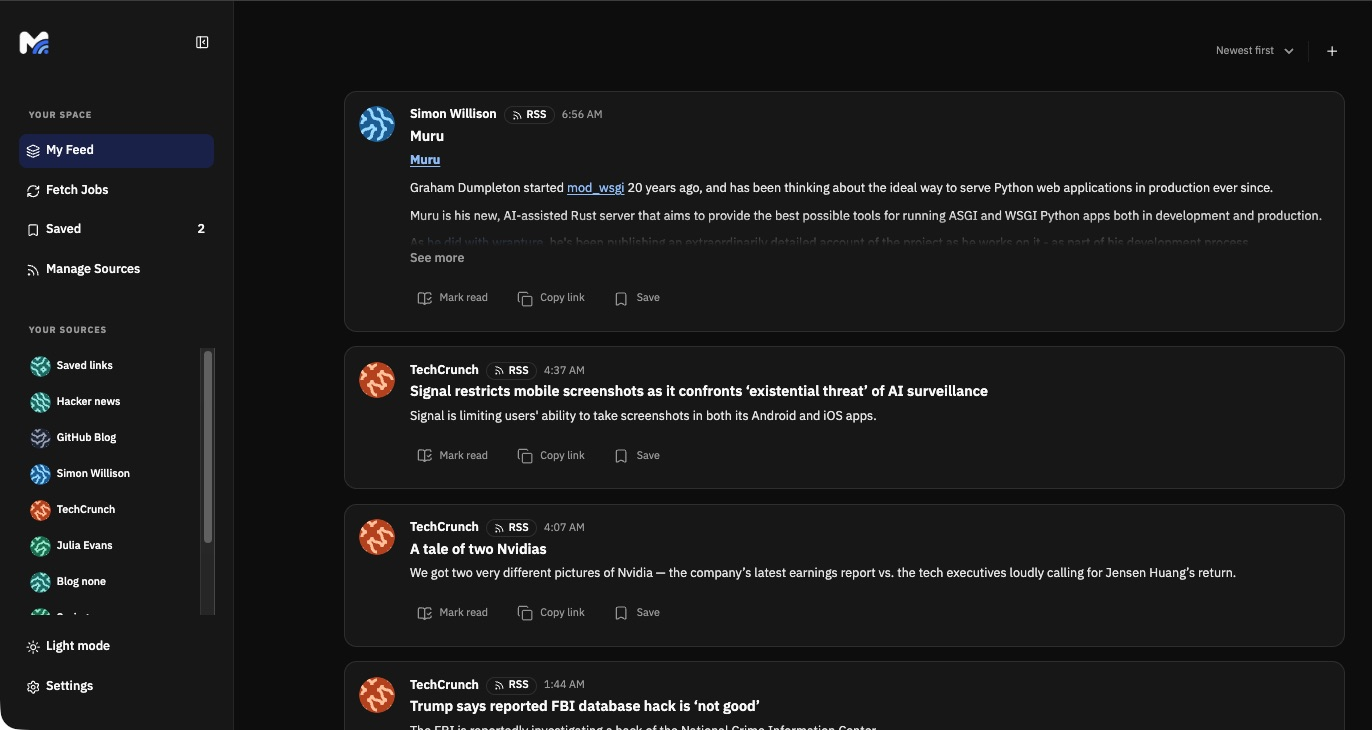
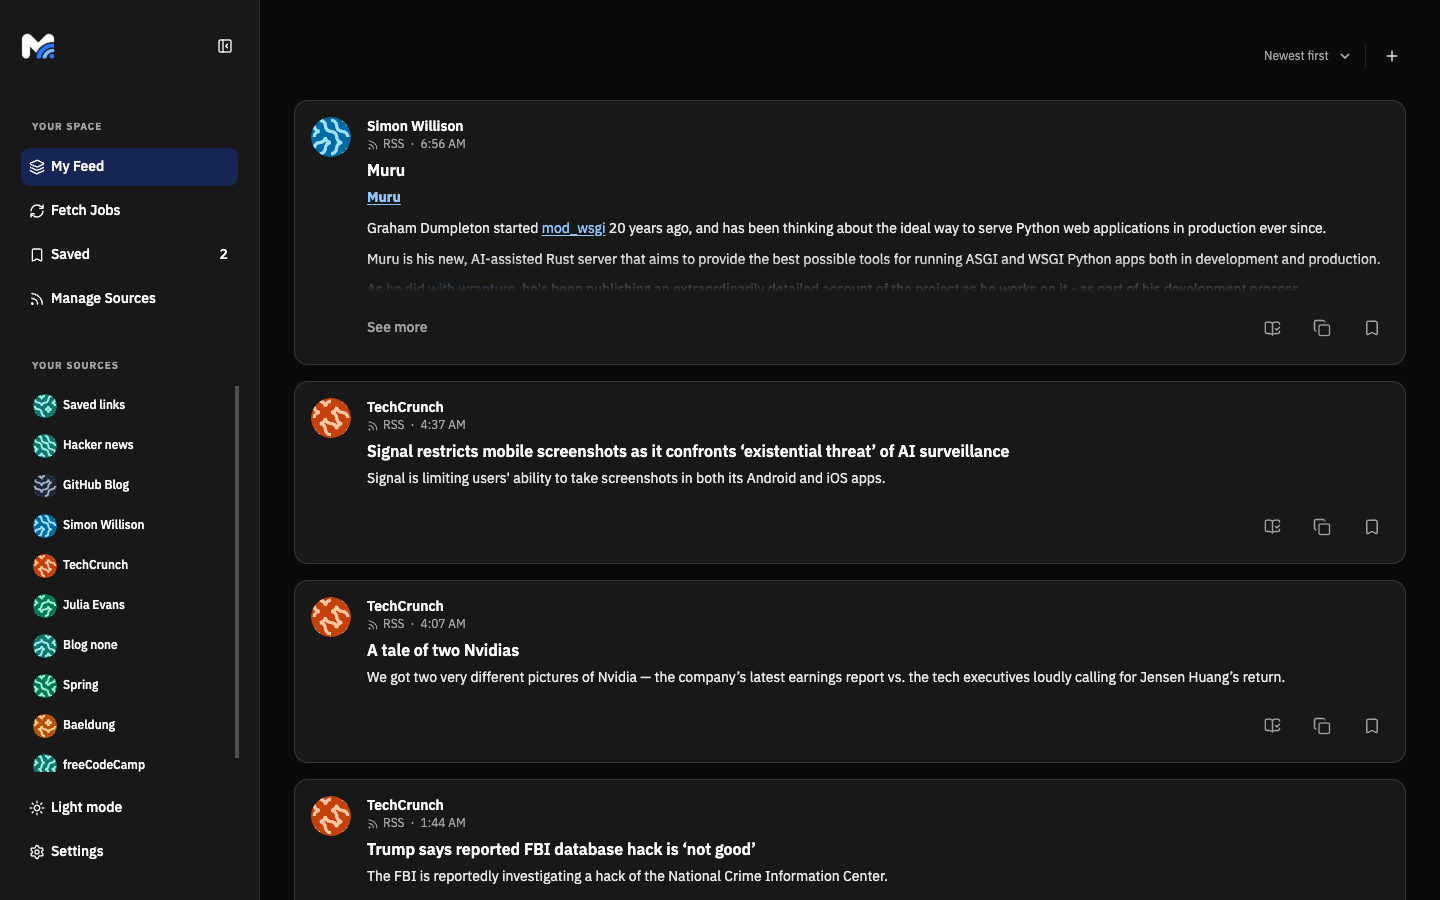
feat(feed): update entry layout and description controls

diff --git a/frontend/src/features/feed/FeedItem.tsx b/frontend/src/features/feed/FeedItem.tsx
@@ -25,6 +25,8 @@ export function FeedItem({
 	onToggle: (entry: Entry, action: "read" | "save") => void;
 }) {
 	const [copied, setCopied] = useState(false);
+	const [expanded, setExpanded] = useState(false);
+	const [overflowing, setOverflowing] = useState(false);
 	const read = !!entry.readAt;
 	const saved = !!entry.savedAt;
 	const date = entry.publishedAt ?? entry.createdAt;
@@ -54,28 +56,26 @@ export function FeedItem({
 			</Link>
 			<div className="min-w-0 flex-1">
 				<div className="flex flex-col gap-3 sm:flex-row sm:items-center sm:gap-5">
-					<div className="min-w-0 flex-1">
-						<div className="flex flex-wrap items-center gap-x-2 gap-y-1">
-							<div className="flex min-w-0 items-center gap-2">
-								<Link
-									to="/sources/$sourceId"
-									params={{ sourceId: entry.sourceId }}
-									className="truncate text-sm font-semibold hover:underline"
-								>
-									{source?.name ?? "Source"}
-								</Link>
-								{source && <SourceTypeBadge type={source.type} />}
-							</div>
-							<time
-								dateTime={date}
-								className="shrink-0 text-xs text-muted-foreground"
+					<div className="min-w-0 flex-1 mb-1">
+						<div className="min-w-0">
+							<Link
+								to="/sources/$sourceId"
+								params={{ sourceId: entry.sourceId }}
+								className="block truncate text-sm font-semibold hover:underline"
 							>
-								{formatDate(date)}
-							</time>
+								{source?.name ?? "Source"}
+							</Link>
+							<div className="flex items-center gap-1.5 text-xs text-muted-foreground">
+								{source && (
+									<SourceTypeBadge type={source.type} variant="inline" />
+								)}
+								{source && <span aria-hidden="true">·</span>}
+								<time dateTime={date}>{formatDate(date)}</time>
+							</div>
 						</div>
 						<h3
 							className={cn(
-								"mt-1 text-base font-semibold leading-snug",
+								"mt-2 text-base font-semibold leading-snug",
 								read && "text-muted-foreground",
 							)}
 						>
@@ -88,7 +88,13 @@ export function FeedItem({
 								{entry.title}
 							</a>
 						</h3>
-						{description && <RichDescription html={description} />}
+						{description && (
+							<RichDescription
+								html={description}
+								expanded={expanded}
+								onOverflowChange={setOverflowing}
+							/>
+						)}
 					</div>
 					{entry.thumbnail && (
 						<a
@@ -105,59 +111,66 @@ export function FeedItem({
 						</a>
 					)}
 				</div>
-				<div className="mt-3 flex flex-wrap items-center gap-x-2 text-muted-foreground sm:gap-x-4">
-					<button
-						type="button"
-						disabled={disabled}
-						onClick={() => onToggle(entry, "read")}
-						aria-label={
-							read
-								? `Mark ${entry.title} as unread`
-								: `Mark ${entry.title} as read`
-						}
-						aria-pressed={read}
-						title={read ? "Read" : "Mark as read"}
-						className="inline-flex min-h-11 min-w-11 items-center justify-center gap-2 sm:min-h-10 sm:min-w-0 rounded-md px-2 text-xs hover:bg-muted disabled:opacity-50"
-					>
-						{read ? <CircleCheck size={17} /> : <BookOpenCheck size={17} />}
-						<span className="hidden sm:inline">
-							{read ? "Read" : "Mark read"}
-						</span>
-					</button>
-					<button
-						type="button"
-						onClick={copyLink}
-						aria-label={copied ? "Link copied" : "Copy link"}
-						title={copied ? "Link copied" : "Copy link"}
-						className="inline-flex min-h-11 min-w-11 items-center justify-center gap-2 sm:min-h-10 sm:min-w-0 rounded-md px-2 text-xs hover:bg-muted"
-					>
-						{copied ? (
-							<Check size={18} strokeWidth={1.9} />
-						) : (
-							<Copy size={18} strokeWidth={1.7} />
-						)}
-						<span className="hidden sm:inline">
-							{copied ? "Copied" : "Copy link"}
-						</span>
-					</button>
-					<button
-						type="button"
-						disabled={disabled}
-						onClick={() => onToggle(entry, "save")}
-						aria-label={
-							saved ? `Remove ${entry.title} from Saved` : `Save ${entry.title}`
-						}
-						aria-pressed={saved}
-						title={saved ? "Remove from saved" : "Saved"}
-						className="inline-flex min-h-11 min-w-11 items-center justify-center gap-2 sm:min-h-10 sm:min-w-0 rounded-md px-2 text-xs hover:bg-muted disabled:opacity-50"
-					>
-						<Bookmark
-							size={18}
-							strokeWidth={1.7}
-							fill={saved ? "currentColor" : "none"}
-						/>
-						<span className="hidden sm:inline">{saved ? "Saved" : "Save"}</span>
-					</button>
+				<div className="mt-3 flex items-center text-muted-foreground">
+					{description && overflowing && (
+						<button
+							type="button"
+							aria-expanded={expanded}
+							onClick={() => setExpanded(!expanded)}
+							className="text-sm font-medium hover:text-foreground hover:underline focus-visible:outline-2 focus-visible:outline-offset-2"
+						>
+							{expanded ? "See less" : "See more"}
+						</button>
+					)}
+					<div className="ml-auto flex items-center gap-x-2 sm:gap-x-4">
+						<button
+							type="button"
+							disabled={disabled}
+							onClick={() => onToggle(entry, "read")}
+							aria-label={
+								read
+									? `Mark ${entry.title} as unread`
+									: `Mark ${entry.title} as read`
+							}
+							aria-pressed={read}
+							title={read ? "Read" : "Mark as read"}
+							className="inline-flex min-h-11 min-w-11 items-center justify-center gap-2 sm:min-h-10 sm:min-w-0 rounded-md px-2 text-xs hover:bg-muted disabled:opacity-50"
+						>
+							{read ? <CircleCheck size={17} /> : <BookOpenCheck size={17} />}
+						</button>
+						<button
+							type="button"
+							onClick={copyLink}
+							aria-label={copied ? "Link copied" : "Copy link"}
+							title={copied ? "Link copied" : "Copy link"}
+							className="inline-flex min-h-11 min-w-11 items-center justify-center gap-2 sm:min-h-10 sm:min-w-0 rounded-md px-2 text-xs hover:bg-muted"
+						>
+							{copied ? (
+								<Check size={18} strokeWidth={1.9} />
+							) : (
+								<Copy size={18} strokeWidth={1.7} />
+							)}
+						</button>
+						<button
+							type="button"
+							disabled={disabled}
+							onClick={() => onToggle(entry, "save")}
+							aria-label={
+								saved
+									? `Remove ${entry.title} from Saved`
+									: `Save ${entry.title}`
+							}
+							aria-pressed={saved}
+							title={saved ? "Remove from saved" : "Saved"}
+							className="inline-flex min-h-11 min-w-11 items-center justify-center gap-2 sm:min-h-10 sm:min-w-0 rounded-md px-2 text-xs hover:bg-muted disabled:opacity-50"
+						>
+							<Bookmark
+								size={18}
+								strokeWidth={1.7}
+								fill={saved ? "currentColor" : "none"}
+							/>
+						</button>
+					</div>
 				</div>
 			</div>
 		</article>

diff --git a/frontend/src/features/feed/RichDescription.tsx b/frontend/src/features/feed/RichDescription.tsx
@@ -77,10 +77,17 @@ function renderNode(node: Node, key: number): ReactNode {
 	return <Tag key={key}>{children}</Tag>;
 }
 
-export function RichDescription({ html }: { html: string }) {
+export function RichDescription({
+	html,
+	expanded = false,
+	onOverflowChange,
+}: {
+	html: string;
+	expanded?: boolean;
+	onOverflowChange?: (overflowing: boolean) => void;
+}) {
 	const parsed = new DOMParser().parseFromString(html, "text/html");
 	const contentRef = useRef<HTMLDivElement>(null);
-	const [expanded, setExpanded] = useState(false);
 	const [overflowing, setOverflowing] = useState(false);
 
 	// biome-ignore lint/correctness/useExhaustiveDependencies: remeasure when html content changes
@@ -89,14 +96,16 @@ export function RichDescription({ html }: { html: string }) {
 		if (!content) return;
 		const measure = () => {
 			const limit = parseFloat(getComputedStyle(content).lineHeight) * 5;
-			setOverflowing(content.scrollHeight > limit + 1);
+			const isOverflowing = content.scrollHeight > limit + 1;
+			setOverflowing(isOverflowing);
+			onOverflowChange?.(isOverflowing);
 		};
 		measure();
 		if (typeof ResizeObserver === "undefined") return;
 		const observer = new ResizeObserver(measure);
 		observer.observe(content);
 		return () => observer.disconnect();
-	}, [html]);
+	}, [html, onOverflowChange]);
 
 	return (
 		<div className="mt-1 text-sm leading-relaxed text-foreground/90">
@@ -115,16 +124,6 @@ export function RichDescription({ html }: { html: string }) {
 					renderNode(node, index),
 				)}
 			</div>
-			{overflowing && (
-				<button
-					type="button"
-					aria-expanded={expanded}
-					onClick={() => setExpanded(!expanded)}
-					className="mt-1 font-medium text-muted-foreground hover:text-foreground hover:underline focus-visible:outline-2 focus-visible:outline-offset-2"
-				>
-					{expanded ? "See less" : "See more"}
-				</button>
-			)}
 		</div>
 	);
 }

diff --git a/frontend/src/components/SourceTypeBadge.tsx b/frontend/src/components/SourceTypeBadge.tsx
@@ -9,12 +9,25 @@ const types: Record<
 	manual: { label: "Manual", icon: Layers3, iconClassName: "text-blue-600" },
 };
 
-export function SourceTypeBadge({ type }: { type: string }) {
+export function SourceTypeBadge({
+	type,
+	variant = "outline",
+}: {
+	type: string;
+	variant?: "outline" | "inline";
+}) {
 	const sourceType = types[type];
 	const Icon = sourceType?.icon;
 
 	return (
-		<Badge variant="outline">
+		<Badge
+			variant="outline"
+			className={
+				variant === "inline"
+					? "h-auto border-0 p-0 font-normal text-muted-foreground"
+					: undefined
+			}
+		>
 			{type === "youtube" && (
 				<svg aria-hidden="true" viewBox="0 0 24 24">
 					<rect x="2" y="4" width="20" height="16" rx="4" fill="#ff0000" />

diff --git a/.codex/hooks/check_frontend.py b/.codex/hooks/check_frontend.py
@@ -1,0 +1,38 @@
+#!/usr/bin/env python3
+import json
+import subprocess
+import sys
+from pathlib import Path
+
+root = Path(__file__).resolve().parents[2]
+event = json.load(sys.stdin)
+
+# Avoid an endless continuation when a check cannot be fixed in this environment.
+if event.get("stop_hook_active"):
+    print("{}")
+    sys.exit(0)
+
+status = subprocess.run(
+    ["git", "status", "--porcelain", "--untracked-files=all", "--", "frontend/"],
+    cwd=root,
+    capture_output=True,
+    text=True,
+)
+if status.returncode:
+    print(json.dumps({"decision": "block", "reason": f"Could not check frontend changes: {status.stderr}. Report this limitation."}))
+    sys.exit(0)
+if not status.stdout:
+    print("{}")
+    sys.exit(0)
+
+result = subprocess.run(
+    ["pnpm", "exec", "biome", "check", "."],
+    cwd=root / "frontend",
+    capture_output=True,
+    text=True,
+)
+if result.returncode:
+    reason = f"Frontend formatting and lint checks failed (exit {result.returncode}). Fix issues related to this work if possible; otherwise report the failures and limitations.\n\n{result.stdout}{result.stderr}"
+    print(json.dumps({"decision": "block", "reason": reason}))
+else:
+    print("{}")
